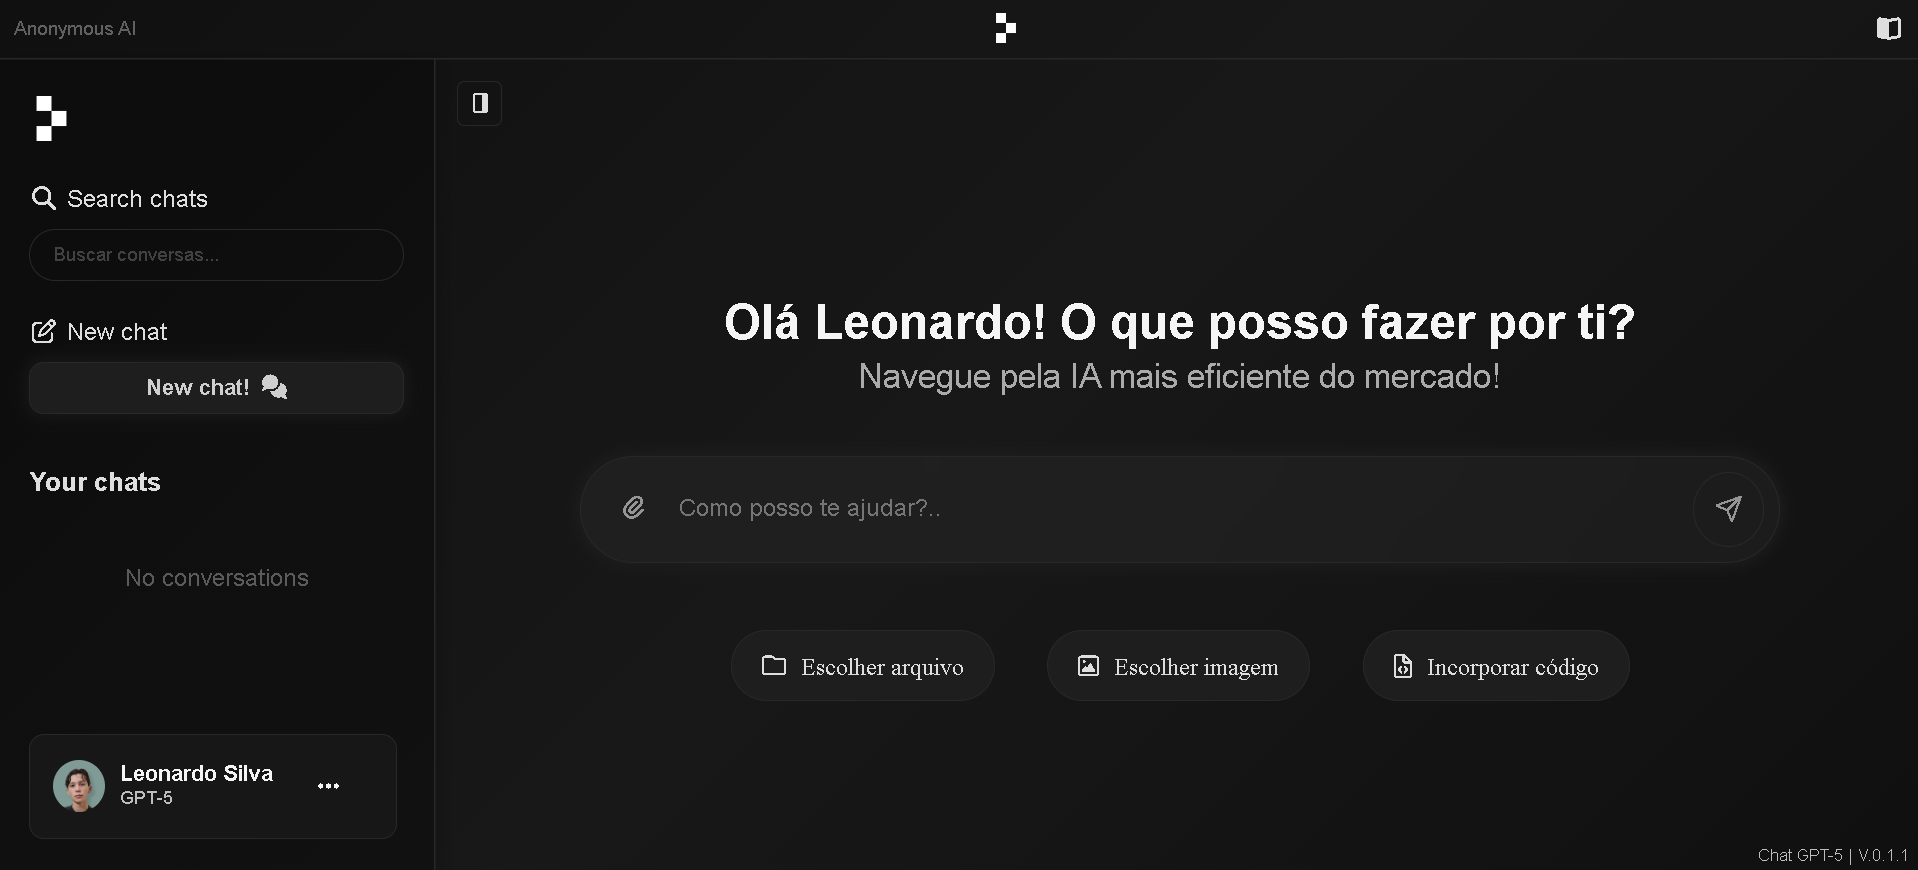
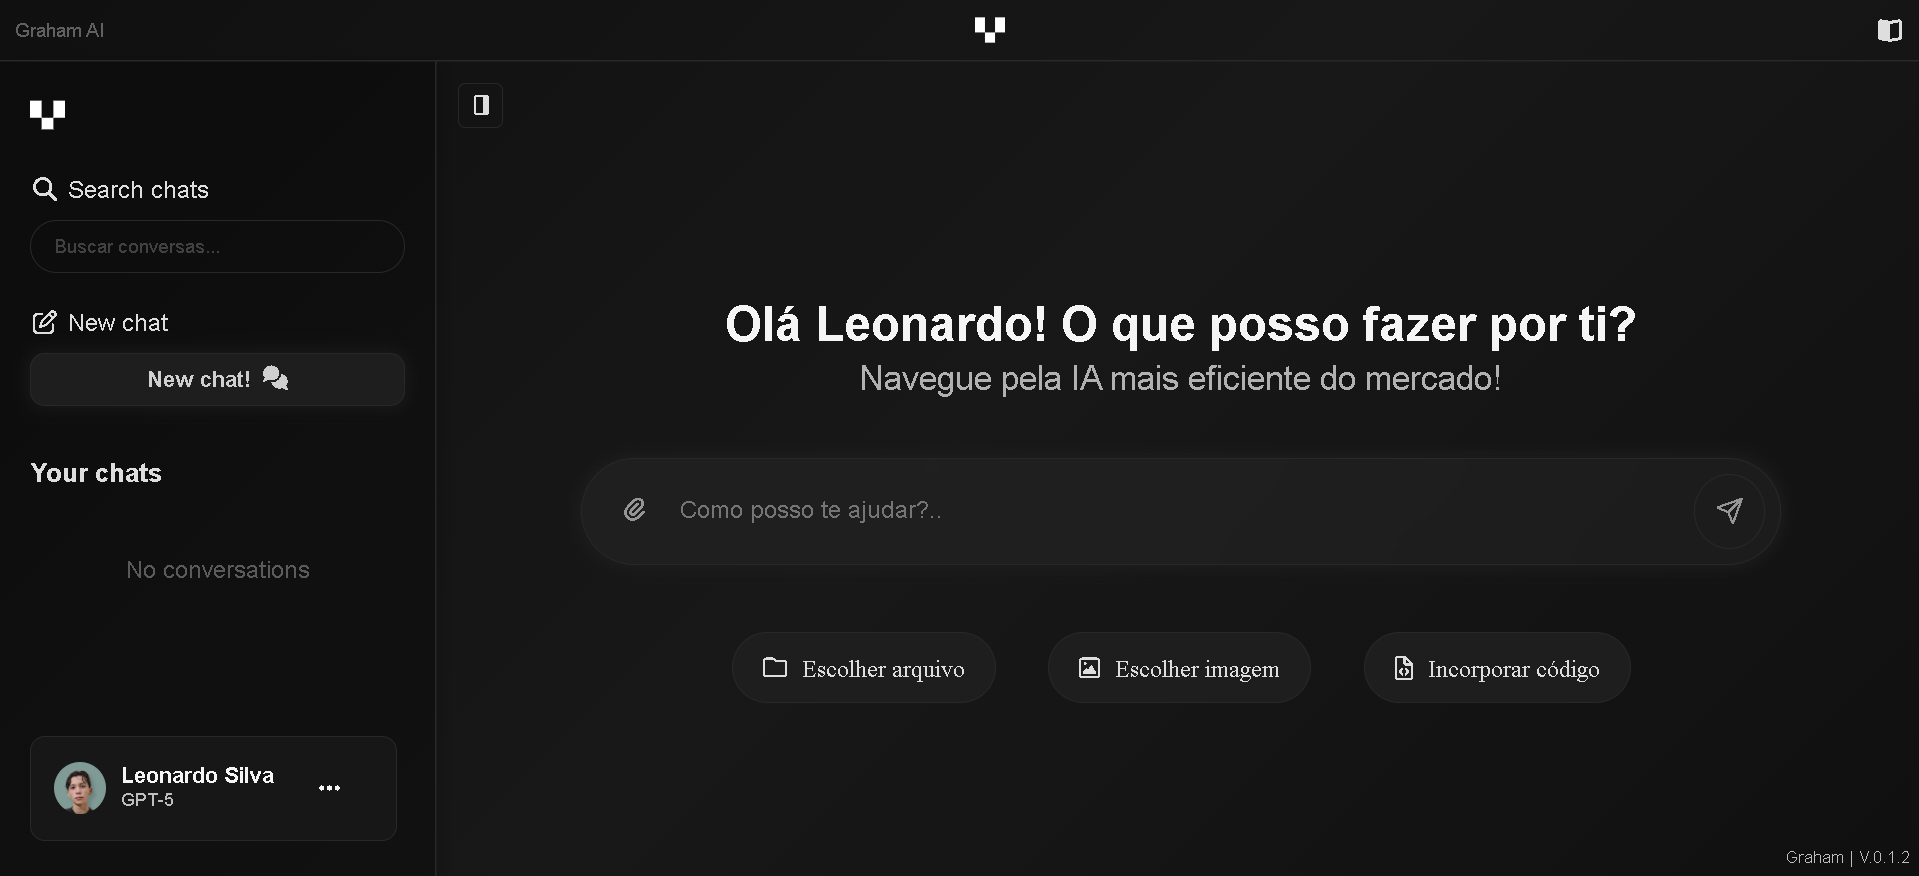
10 a- rebranding trocando para Graham

diff --git a/src/components/Footer.jsx b/src/components/Footer.jsx
@@ -1,11 +1,11 @@
-import logo from '../assets/img/logo-light.png'
+import logo from '../assets/img/logo-light.svg'
 import '../css/footer.css'
 
 function Footer() {
     return (
         <footer>
             <div className="content-footer">
-                <div className="presentation-anonymous">
+                <div className="presentation-graham">
                     <img src={logo} />
                     <p>Lorem ipsum dolor sit amet consectetur adipisicing elit. 
                         Laborum rerum blanditiis aut? Cumque repudiandae iusto 
@@ -25,7 +25,7 @@ function Footer() {
                 <div>
                     <nav>
                         <ul>
-                            <li><a href="#">Anonymous - chat</a></li>
+                            <li><a href="https://graham-ai-kappa.vercel.app/">Graham - chat</a></li>
                             <li><a href="#">Login</a></li>
                             <li><a href="#">Create account</a></li>
                             <li><a href="#">contribute</a></li>
@@ -55,7 +55,7 @@ function Footer() {
                     </nav>
                 </div>
             </div>
-            <p>Anonymous &copy;2025 - Todos os direitos reservados</p>
+            <p>GrahamAI &copy;2025 - Todos os direitos reservados</p>
         </footer>
     )
 }

diff --git a/src/App.jsx b/src/App.jsx
@@ -85,7 +85,7 @@ function App() {
         <hr />
         <section className='openai-anonymous'>
           <div className="text-ali-left">
-            <h1>OpenAI x Anonymous</h1>
+            <h1>OpenAI x Graham</h1>
             <p>Lorem ipsum dolor sit amet consectetur, adipisicing elit. Nesciunt architecto odio
               fugit. Laudantium itaque omnis quidem labore, incidunt est nisi sunt perferendis libero
               illo beatae dolorem rem quae voluptatum pariatur.</p>

diff --git a/index.html b/index.html
@@ -5,7 +5,7 @@
     <link rel="icon" type="image/svg+xml" href="./src/assets/img/icon-light.svg" />
     <link rel="stylesheet" href="https://cdnjs.cloudflare.com/ajax/libs/font-awesome/7.0.0/css/all.min.css">
     <meta name="viewport" content="width=device-width, initial-scale=1.0" />
-    <title>Anonymous - page</title>
+    <title>GrahamAI - page</title>
   </head>
   <body>
     <div id="root"></div>

diff --git a/src/components/Presentation.jsx b/src/components/Presentation.jsx
@@ -4,7 +4,7 @@ function Presentation() {
     return (
         <section>
             <div className="presentation">
-                <h1>Anonymous AI</h1>
+                <h1>Graham AI</h1>
                 <h2>First GPT-5 powered interface</h2>
                 <button>Learn more</button>
                 <i class="fa-solid fa-chevron-down arrow"></i>

diff --git a/src/components/Icon.jsx b/src/components/Icon.jsx
@@ -4,7 +4,7 @@ import '../css/icon.css'
 function Icon(){
     return(
         <article className='icon'>
-            <a href="https://anonymous-ai.vercel.app/"><img src={logo} alt="logo" /></a>
+            <a href="https://graham-ai-kappa.vercel.app/"><img src={logo} alt="logo" /></a>
         </article>
     )
 }

diff --git a/src/components/Header.jsx b/src/components/Header.jsx
@@ -4,7 +4,7 @@ import '../css/header.css'
 function Header(){
   return (
     <header>
-        <a href="#"><img src={logo} alt="logo-anonymous" /></a>
+        <a href="#"><img src={logo} alt="logo-Graham" /></a>
         <nav>
             <ul>
                 <li><a href="#">Home</a></li>

diff --git a/src/css/footer.css b/src/css/footer.css
@@ -39,7 +39,7 @@ footer p{
     width: 190px;
 }
 
-.presentation-anonymous{
+.presentation-graham{
     display: flex;
     flex-direction: column;
     width: 200px;

diff --git a/README.md b/README.md
@@ -1,9 +1,9 @@
 <div align="center">
 
-<img src="./src/assets/img/icon-light.svg" width="200px">
+<img src="./src/assets/img/logo-light.svg" width="200px">
 </div>
 
-access: [anonymous.ai](https://anonymous-ai-page.vercel.app/)
+access: [graham.ai](https://graham-ai-page.vercel.app/)
 
 <div align="center">
 
